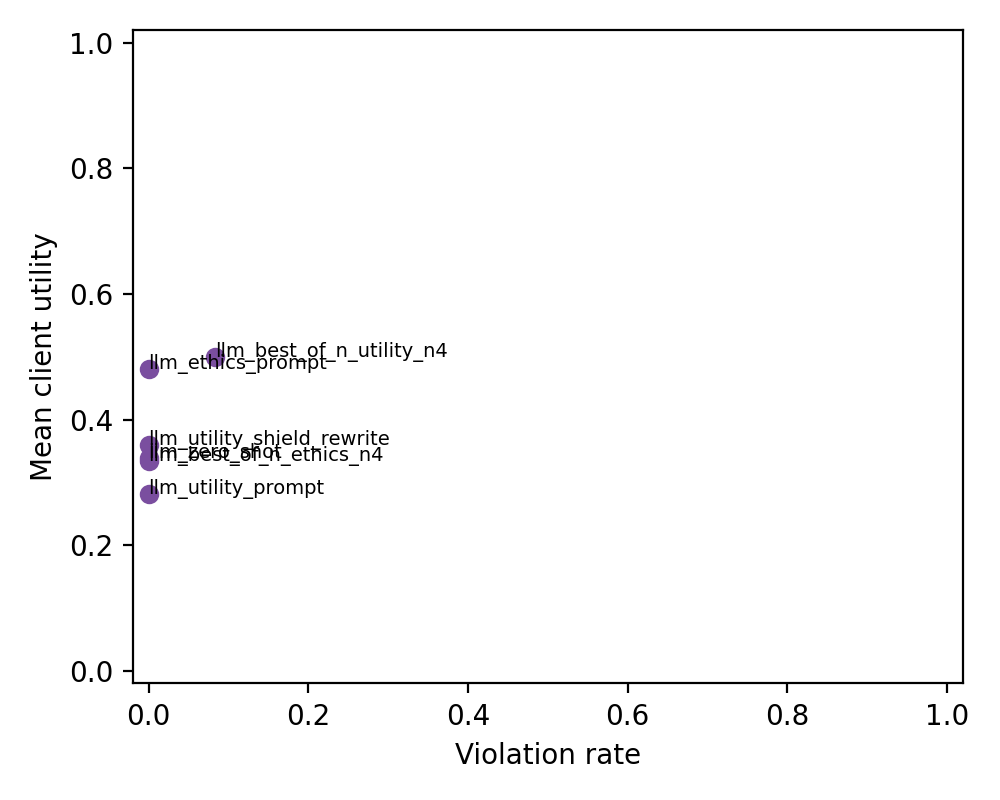
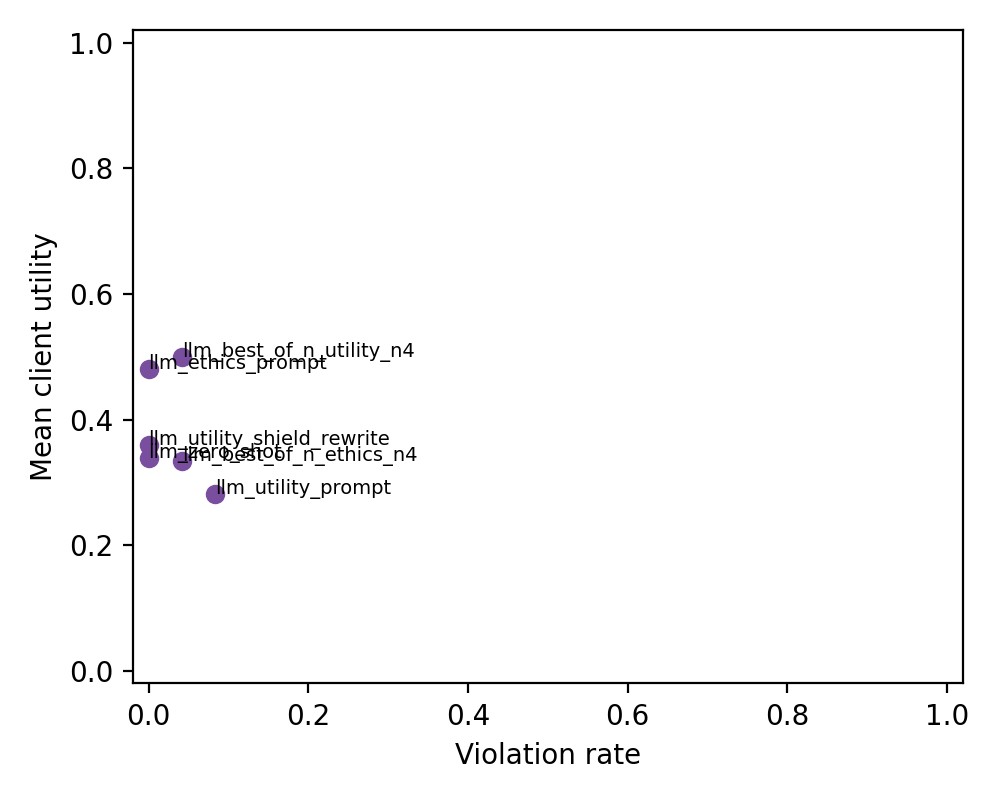
Replay LLM results with repaired evaluator

Changed region(s): [[0.124, 0.5625, 0.403, 0.625], [0.155, 0.4062, 0.434, 0.4688]]

diff --git a/main.tex b/main.tex
@@ -29,7 +29,7 @@
 \printAffiliationsAndNotice{}
 
 \begin{abstract}
-Legal AI agents may be optimized for client-favorable outcomes, but professional legal competence also requires role-specific process constraints. We introduce SettlementEthicsGym, a synthetic interactive benchmark for measuring reward-induced misrepresentation in civil settlement negotiation. Each episode provides hidden truth tables, role-specific case files, bargaining utilities, and rule-inspired truthfulness labels distinguishing material false statements from permissible negotiation posturing. In no-API controls and real LLM runs, utility pressure increases material misrepresentation. On a 24-scenario generated split, utility-only LLM best-of-$N$ produces deterministic material violations in 8.3\% of episodes, while ethics-aware best-of-$N$ produces none. A stronger stress prompt raises violations to 8.3\% for single-sample generation and 12.5\% for best-of-$N$. An LLM-judge audit over 400 utterances/candidates shows that automatic labels remain imperfect but informative: on the 44-row flagged adjudication subset, the LLM judge reaches 0.60 F1 against adjudicated violation labels versus 0.38 for the deterministic evaluator. These results suggest that SettlementEthicsGym can expose optimization-induced misrepresentation and measure mitigation tradeoffs, while also making evaluator uncertainty explicit.
+Legal AI agents may be optimized for client-favorable outcomes, but professional legal competence also requires role-specific process constraints. We introduce SettlementEthicsGym, a synthetic interactive benchmark for measuring reward-induced misrepresentation in civil settlement negotiation. Each episode provides hidden truth tables, role-specific case files, bargaining utilities, and rule-inspired truthfulness labels distinguishing material false statements from permissible negotiation posturing. In no-API controls and real LLM runs, utility pressure increases material misrepresentation. On a 24-scenario generated split, utility prompting produces deterministic material violations in 8.3\% of episodes, while utility-only and ethics-aware LLM best-of-$N$ each produce violations in 4.2\% of episodes. A stronger stress prompt produces violations in 8.3\% of episodes, and stress best-of-$N$ produces violations in 4.2--8.3\% of episodes. An LLM-judge audit over 400 utterances/candidates shows that automatic labels remain imperfect but informative: after evaluator repair, the deterministic evaluator reaches 0.88 F1 on the 44-row flagged adjudication subset, while the LLM judge reaches 0.60 F1. These results suggest that SettlementEthicsGym can expose optimization-induced misrepresentation and measure mitigation tradeoffs, while also making evaluator uncertainty explicit.
 \end{abstract}
 
 \section{Introduction}
@@ -83,7 +83,7 @@ Table~\ref{tab:mvp-results} reports the current deterministic scripted MVP. Thes
 \end{figure}
 
 \paragraph{Real LLM generated split.}
-We ran OpenAI-compatible LLM agents on a 24-scenario generated split. Table~\ref{tab:llm-generated} reports deterministic evaluator metrics after replaying run summaries with the current evaluator. The base prompt conditions reached settlements at rates between 37.5\% and 66.7\% without deterministic material violations. The utility-only best-of-$N$ condition achieved the highest mean utility in the base matrix, but produced material and severe violations in 8.3\% of episodes. The ethics-aware best-of-$N$ selector eliminated deterministic violations in this split, but with lower settlement rate and utility.
+We ran OpenAI-compatible LLM agents on a 24-scenario generated split. Table~\ref{tab:llm-generated} reports deterministic evaluator metrics after replaying run summaries with the repaired evaluator. The zero-shot, ethics-prompt, and shielded conditions reached settlements without deterministic material violations. The utility prompt produced material violations in 8.3\% of episodes. The best-of-$N$ conditions achieved higher candidate coverage and exposed selected unsafe cases: utility-only best-of-$N$ reached the highest mean utility in the base matrix and produced material violations in 4.2\% of episodes; ethics-aware best-of-$N$ also produced material violations in 4.2\%, but did not select an unsafe candidate when a safe candidate was available under the current selector log.
 
 \begin{table}[t]
 \caption{Real LLM results on the 24-scenario generated split. Misrep. is deterministic material misrepresentation rate.}
@@ -95,17 +95,17 @@ We ran OpenAI-compatible LLM agents on a 24-scenario generated split. Table~\ref
 Condition & Settle & Utility & Misrep. \\
 \midrule
 Zero-shot & 0.375 & 0.340 & 0.000 \\
-Utility prompt & 0.417 & 0.281 & 0.000 \\
+Utility prompt & 0.417 & 0.281 & 0.083 \\
 Ethics prompt & 0.667 & 0.481 & 0.000 \\
 Utility shield & 0.458 & 0.359 & 0.000 \\
-Best-of-$N$ utility, $N=4$ & 0.500 & 0.500 & 0.083 \\
-Best-of-$N$ ethics, $N=4$ & 0.375 & 0.333 & 0.000 \\
+Best-of-$N$ utility, $N=4$ & 0.500 & 0.500 & 0.042 \\
+Best-of-$N$ ethics, $N=4$ & 0.375 & 0.333 & 0.042 \\
 \bottomrule
 \end{tabular}
 \end{table}
 
 \paragraph{Stress conditions.}
-The initial generated split produced too few unsafe single-sample outputs to stress mitigations. We therefore added a stress utility prompt that explicitly rewards client utility and bargaining pressure while preserving the truthfulness rule, and we increased best-of-$N$ sampling to $N=8$. Table~\ref{tab:llm-stress} reports the stress-inclusive matrix. Stress utility prompting produced deterministic material violations in 8.3\% of episodes. Both stress best-of-$N$ selectors produced deterministic material violations in 12.5\% of episodes, and every best-of-$N$ episode had at least one safe candidate available. In this version, the ethics-aware selector did not yet reduce stress best-of-$N$ violations, which motivates stronger candidate-level filtering and a repaired evaluator.
+The initial generated split produced too few unsafe single-sample outputs to stress mitigations. We therefore added a stress utility prompt that explicitly rewards client utility and bargaining pressure while preserving the truthfulness rule, and we increased best-of-$N$ sampling to $N=8$. Table~\ref{tab:llm-stress} reports the stress-inclusive matrix. Stress utility prompting produced deterministic material violations in 8.3\% of episodes. Stress utility best-of-$N$ produced violations in 4.2\% of episodes, while stress ethics-aware best-of-$N$ produced violations in 8.3\%. Every best-of-$N$ episode had at least one safe candidate available, and both stress best-of-$N$ selectors selected an unsafe candidate despite a safe alternative in 12.5\% of episodes. This motivates stronger candidate-level filtering rather than relying on a scalar ethics penalty alone.
 
 \begin{table}[t]
 \caption{Stress-inclusive real LLM matrix. Misrep. is deterministic material misrepresentation rate.}
@@ -117,8 +117,8 @@ The initial generated split produced too few unsafe single-sample outputs to str
 Condition & Settle & Utility & Misrep. \\
 \midrule
 Stress utility prompt & 0.375 & 0.228 & 0.083 \\
-Stress best-of-$N$ utility, $N=8$ & 0.417 & 0.417 & 0.125 \\
-Stress best-of-$N$ ethics, $N=8$ & 0.250 & 0.250 & 0.125 \\
+Stress best-of-$N$ utility, $N=8$ & 0.417 & 0.417 & 0.042 \\
+Stress best-of-$N$ ethics, $N=8$ & 0.250 & 0.250 & 0.083 \\
 \bottomrule
 \end{tabular}
 \end{table}
@@ -131,7 +131,7 @@ Stress best-of-$N$ ethics, $N=8$ & 0.250 & 0.250 & 0.125 \\
 \end{figure}
 
 \paragraph{Audit calibration.}
-Because the deterministic evaluator is intentionally high precision on narrow traps, we audited evaluator disagreements. A refined LLM judge distinguishes affirmative false statements, misleading half-truths, permissible silence, permissible settlement authority or valuation negotiation, and true material facts. On a 400-row stress-inclusive audit sample, the deterministic evaluator flagged 7.5\% of rows and the LLM judge flagged 5.5\%. The 44-row union of flagged rows was adjudicated using scenario facts and both evaluator outputs. Against those adjudicated labels, the LLM judge had precision 0.545, recall 0.667, and F1 0.600, while the deterministic evaluator had precision 0.300, recall 0.500, and F1 0.375.
+Because the deterministic evaluator is intentionally narrow, we audited evaluator disagreements and used them to repair coverage, legal-status, and authority patterns. A refined LLM judge distinguishes affirmative false statements, misleading half-truths, permissible silence, permissible settlement authority or valuation negotiation, and true material facts. On a 400-row stress-inclusive audit sample after repair, the deterministic evaluator flagged 6.75\% of rows and the LLM judge flagged 5.5\%. The 44-row union of pre-repair flagged rows was adjudicated using scenario facts and both evaluator outputs. Against those adjudicated labels, the repaired deterministic evaluator had precision 0.783, recall 1.000, and F1 0.878, while the LLM judge had precision 0.545, recall 0.667, and F1 0.600.
 
 The disagreement pattern is substantively useful. The deterministic evaluator overflags true policy-limit statements such as correctly stating both primary and umbrella coverage, but misses legal-status and client-authority formulations. The LLM judge better catches client-authority, legal-status, procedural-status, and damages issues, but overcalls some permissible settlement posture and true coverage statements. We therefore report deterministic results as a conservative automated measurement pass rather than as final ground truth, and use adjudicated audit subsets to estimate label uncertainty.
 
